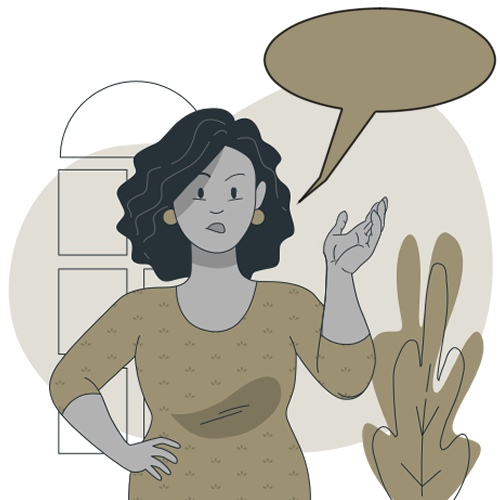
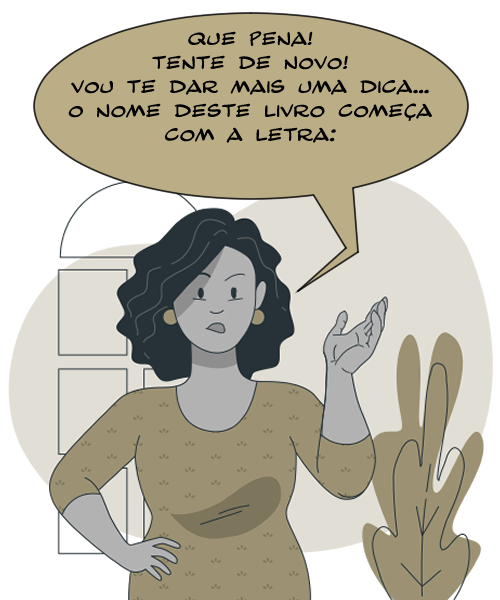
Ajustes na dica-bonus e dica-extra

diff --git a/scripts/index.js b/scripts/index.js
@@ -151,17 +151,23 @@ function acoesParaRespostaErrada() {
   inputDeResposta.value = ""
   pontuacao.errando()
   if (isNaN(primeiraLetra)) {
-    document.getElementById("dica-bonus").innerHTML = `<p class="dica-extra">O nome deste livro começa com a letra:<strong> ${primeiraLetra}</strong><img src="imagens/mensagem-nova-dica.png"></p>`
+    document.getElementById("dica-bonus").innerHTML =
+    `<p class="dica-extra">"<strong>${primeiraLetra}</strong>"
+    <img id="imagem-de-fundo src="imagens/mensagem-nova-dica-letra.png"></p>`
   }
   else {
-    document.getElementById("dica-bonus").innerHTML = `<p class="dica-extra">O nome deste livro começa com o número:<strong> ${primeiraLetra}</strong><img src="imagens/mensagem-nova-dica.png"></p>`
+    document.getElementById("dica-bonus").innerHTML =
+    `<p class="dica-extra">"<strong>${primeiraLetra}</strong>"
+    <img id="imagem-de-fundo src="imagens/mensagem-nova-dica-numero.png"></p>`
   }
   setTimeout(() => escondeModal(), 4000)
 }
 function escondeModal() {
   document.getElementById("dica-bonus").innerHTML = ""
+  // document.getElementsByClassName("dica-extra").innerHTML = ""
+  // document.getElementsByClassName("dica-extra").style.zIndex = "0"
+  // document.getElementsById("dica-bonus").style.zIndex = "-1"
 }
-
 
 function autocomplete(inp, arr) {
   /*the autocomplete function takes two arguments,
@@ -308,5 +314,5 @@ function realizaAcoesDeAcerto() {
   document.getElementById("modal-acerto").checked = true
   setTimeout(() => {
     document.getElementById("modal-acerto").checked = false
-  }, 2000)
+  }, 1200)
 }

diff --git a/styles/style.css b/styles/style.css
@@ -336,7 +336,6 @@ h2 {
 #modal-erro:checked ~ .modal-errado {
 	display: block;
 }
-
 .modal-certo {
     position: fixed;
     top: 0;
@@ -363,21 +362,51 @@ h2 {
     box-sizing: border-box;
     z-index: 9999;
 }
-.dica-extra {
-    background-color: aqua;
+#dica-bonus {
     box-sizing: border-box;
     width: 50vw;
-    height: 50vw;
-    position: fixed;
+    height: 60vw;
+    position: absolute;
     top: 0;
     left: 0;
     right: 0;
     bottom: 0;
     margin: auto;
-    z-index: 9999;
-    text-align: center;
-    background-color: #fdb417;
+    z-index: -1;
+    background-image: url("/imagens/mensagem-nova-dica.png");
 }
-/* #dica-bonus {
-    display: none;	
+.dica-extra {
+    position: absolute;
+    top: 25%;
+    left: 46%;
+    font-size: 30px;
+    font-family: 'Swis721 BlkEx BT','Charlesworth', 'Arial Narrow', Arial, sans-serif;
+}
+/*estilo criado temporariamente para facilitar mensagem oculta dica-bônus*/
+/* #teste-mensagem-dica-extra {
+    box-sizing: border-box;
+    width: 50vw;
+    height: 60vw;
+    position: absolute;
+    top: 0;
+    left: 0;
+    right: 0;
+    bottom: 0;
+    margin: auto;
+    z-index: 10;
+    text-align: center;
+    background-color: #ca992f;
+    font-size: 20px;
+    font-family: 'Franklin Gothic Medium', 'Arial Narrow', Arial, sans-serif;
+} */
+/* #mensagem-dica-extra {
+    position: absolute;
+    top: 25%;
+    left: 46%;
+    font-size: 30px;
+    font-family: 'Swis721 BlkEx BT','Charlesworth', 'Arial Narrow', Arial, sans-serif;
+} */
+/* #imagem-de-fundo {
+    width: 100%;
+    z-index: 3;
 } */

diff --git a/index.html b/index.html
@@ -213,8 +213,6 @@
             <img class="dica" id="judas" src="/dicas/judas.png">
             <img class="dica" id="apocalipse" src="/dicas/apocalipse.png"> -->
         </div>
-        <div id="dica-bonus">
-        </div>
         <div id="nome-autocomplete">
             <input type="text" id="nome-do-livro" maxlength="18">
         </div>
@@ -303,8 +301,9 @@
         <div class="caixa-dropped" id="at"></div>
         <div class="caixa-dropped" id="nt"></div>
     </div>
-    <img src="imagens\gameover.png" id="mensagem-final">
-
+    <!--ABAIXO MENSAGENS TEMPORÁRIAS-->
+    <div id="dica-bonus"></div>
+    
     <input type="checkbox" id="modal-erro">
     <div class="modal-errado">
         <img src="imagens\mensagem-de-erro.png" id="mensagem-de-erro">
@@ -313,6 +312,14 @@
     <div class="modal-certo">
         <img src="imagens\mensagem-de-acerto.png" id="mensagem-de-acerto">
     </div>
+    <!-- (div criada temporariamente para facilitar a estilização da "dica-bônus") -->
+    <!--<div id="teste-mensagem-dica-extra">
+        <img src="imagens\mensagem-nova-dica.png" id="imagem-de-fundo">
+        <p id="mensagem-dica-extra">"X"</p>
+    </div>-->
+
+    <img src="imagens\gameover.png" id="mensagem-final">
+
     <script src="scripts/pontuacao.js" defer></script>
     <script src="scripts/LivroDaBiblia.js" defer></script>
     <script src="scripts/index.js" defer></script>
